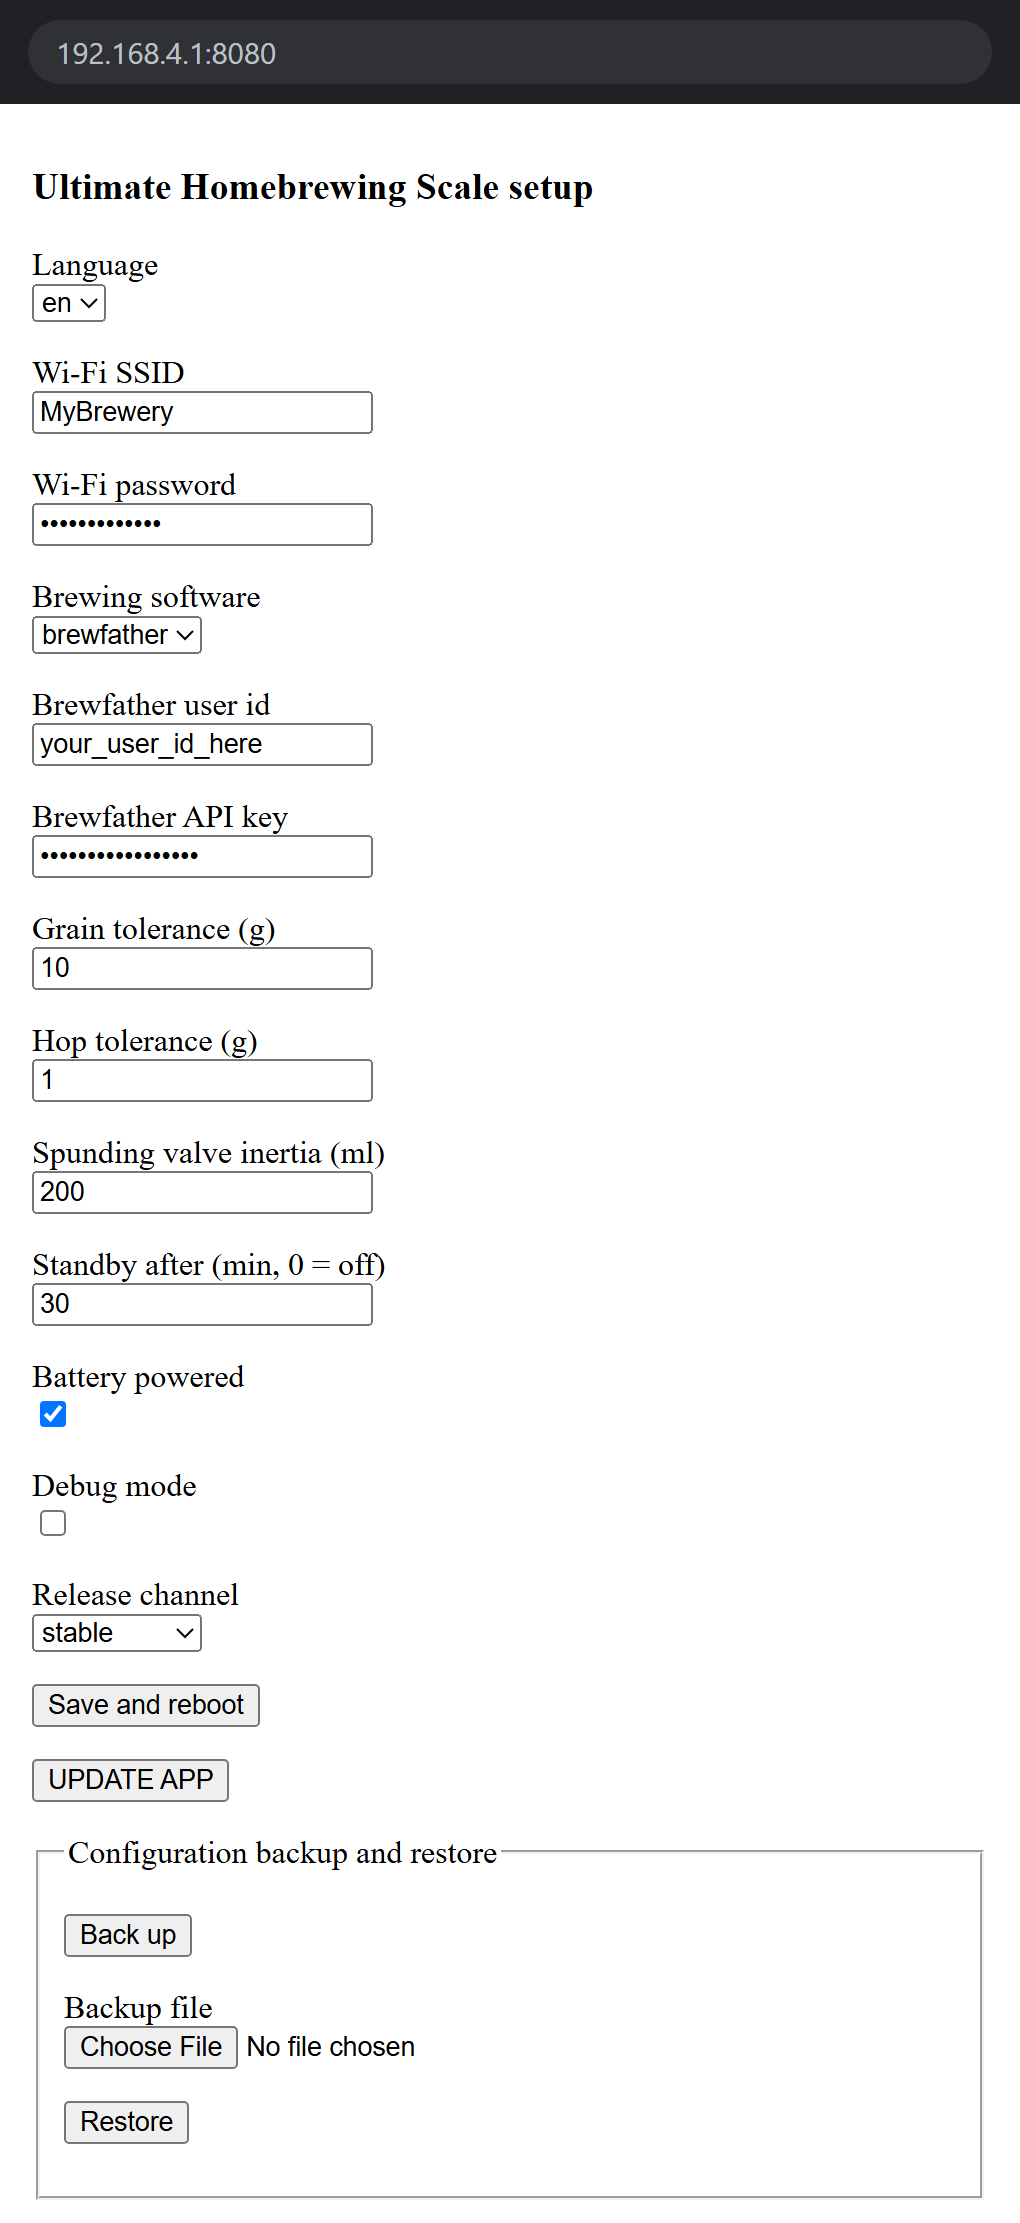
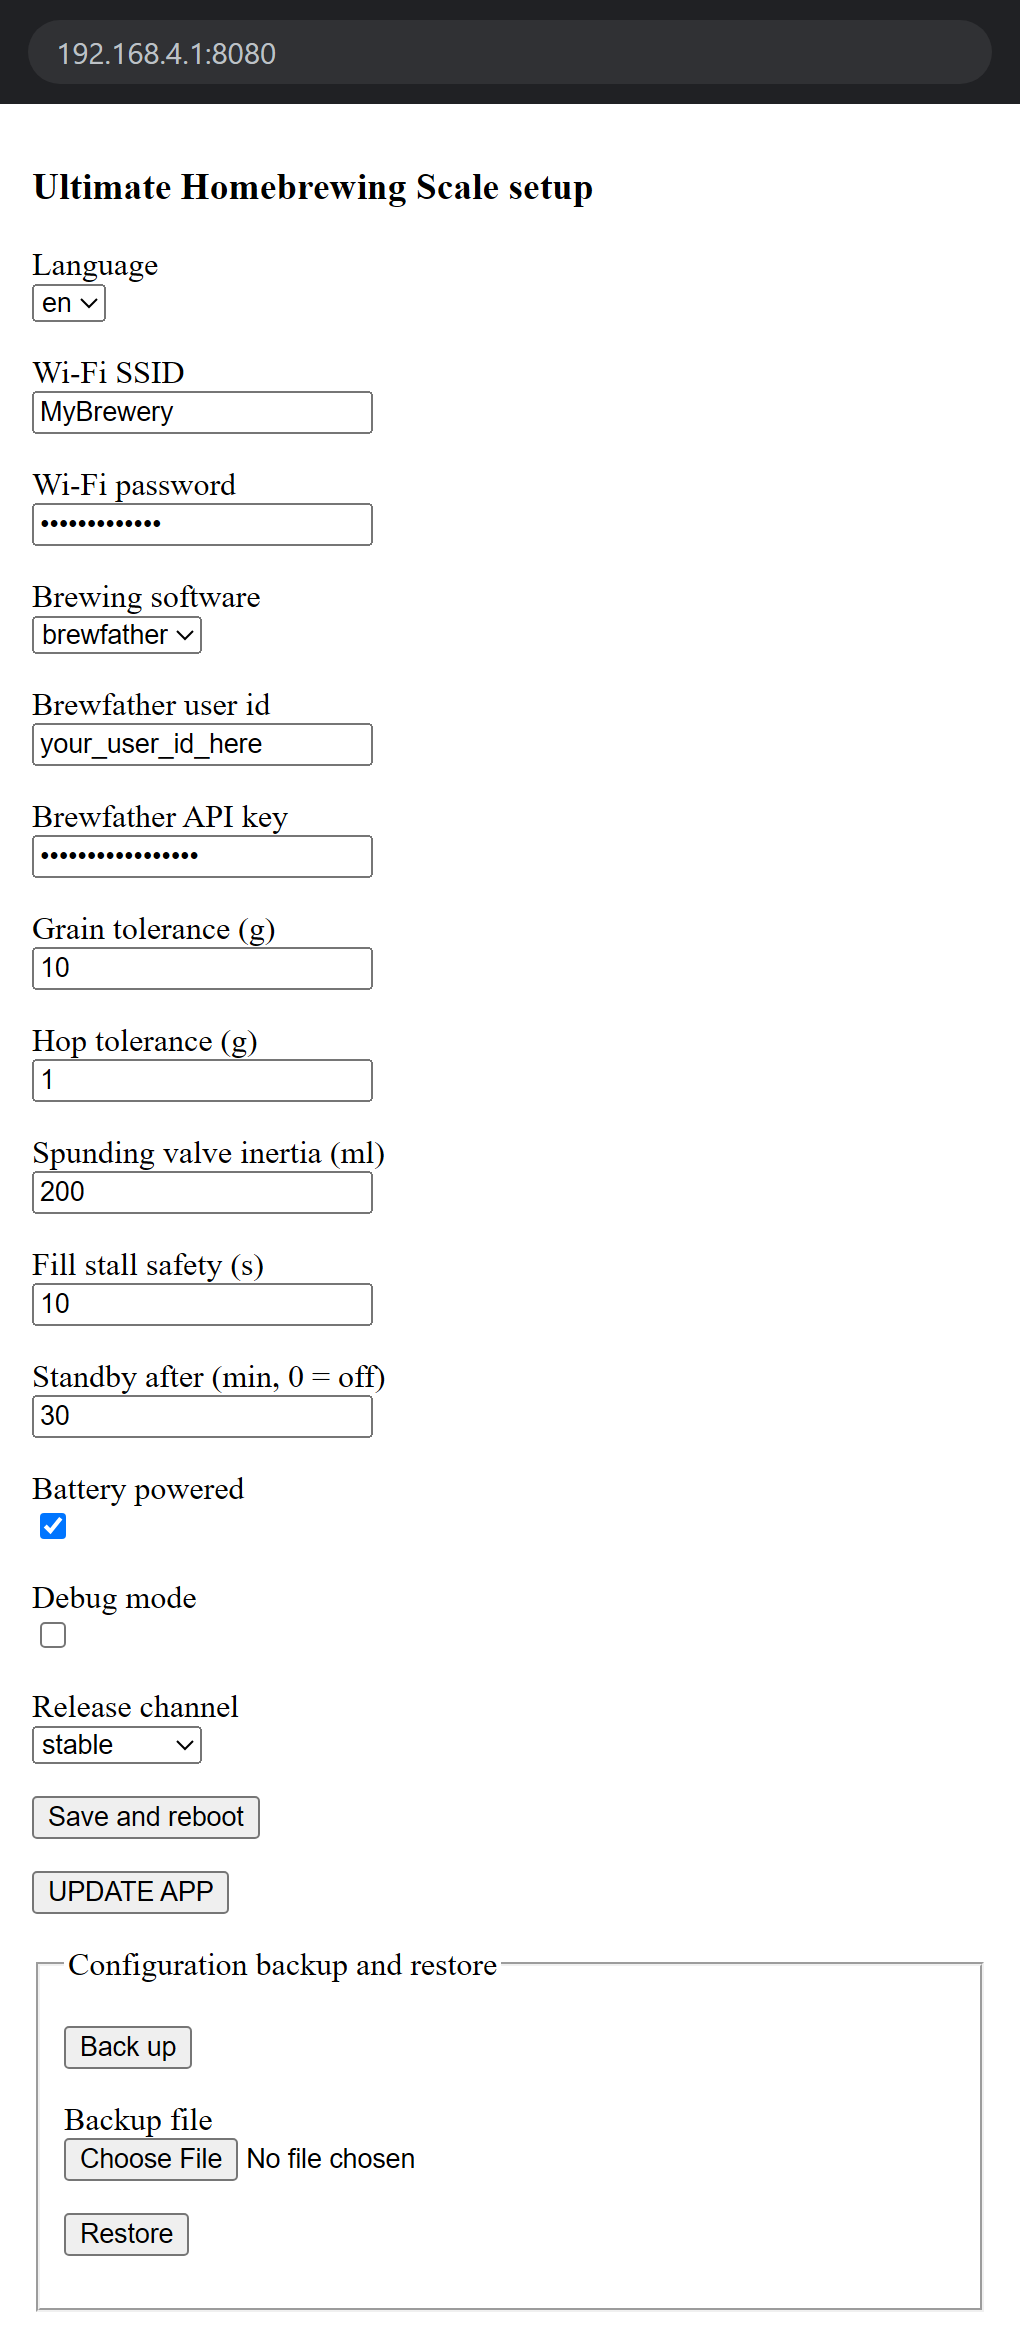
feat(keg): configurable fill stall safety with a resume prompt
The keg filler closed the valve after 30 s without weight change and
offered a recovery menu. The window now defaults to 10 s and is set from
the setup portal (KEG_FILL_STALL_TIMEOUT_S, 3 to 600 s, so the guard can
never be switched off).

When it trips, the Dial says how long the volume has been unchanged and
offers a Resume button. Resuming reopens the valve without re-taring and
restarts the stall window; a long press still returns to the launcher.
The prompt holds off standby so a stalled fill stays resumable.

SimpleMessageScreen takes an optional action button label for this. The
software installation guide, README, config example and portal
screenshot document the new setting.

diff --git a/docs/SoftwareInstallationGuide/fr/index.html b/docs/SoftwareInstallationGuide/fr/index.html
@@ -309,6 +309,15 @@
                       <td>Gardez <code>200</code> ml par défaut ; ce paramètre servira au keg filler pour compenser l'inertie de fermeture.</td>
                     </tr>
                     <tr>
+                      <td>Fill stall safety (s)</td>
+                      <td>
+                        Secondes sans variation de poids avant que le keg filler ferme l'électrovanne. Gardez
+                        <code>10</code> par défaut (plage acceptée : <code>3</code> à <code>600</code>). Le Dial indique
+                        alors depuis combien de temps le volume n'a pas changé : appuyez sur <strong>Reprendre</strong>
+                        pour rouvrir la vanne et relancer le décompte, ou faites un appui long pour revenir au launcher.
+                      </td>
+                    </tr>
+                    <tr>
                       <td>Standby after (min, 0 = off)</td>
                       <td>
                         Minutes sans activité avant la mise en veille du Dial. <strong>Saisissez <code>30</code></strong> :

diff --git a/docs/SoftwareInstallationGuide/en/index.html b/docs/SoftwareInstallationGuide/en/index.html
@@ -309,6 +309,15 @@
                       <td>Keep the default <code>200</code> ml; this future keg filler setting will compensate valve closing inertia.</td>
                     </tr>
                     <tr>
+                      <td>Fill stall safety (s)</td>
+                      <td>
+                        Seconds without any weight change before the keg filler closes the solenoid valve. Keep the
+                        default <code>10</code> (accepted range: <code>3</code> to <code>600</code>). The Dial then shows
+                        how long the volume has been unchanged: press <strong>Resume</strong> to reopen the valve and
+                        restart the countdown, or long-press to go back to the launcher.
+                      </td>
+                    </tr>
+                    <tr>
                       <td>Standby after (min, 0 = off)</td>
                       <td>
                         Minutes without activity before the Dial goes to sleep. <strong>Enter <code>30</code></strong>:

diff --git a/apps/keg_filler_app.py b/apps/keg_filler_app.py
@@ -33,9 +33,13 @@ SAMPLE_INTERVAL_MS = 200
 # The filling loop is the only loop in the project that drives an actuator.
 # read_weight_filtered() returns its cached value when the ADC read fails, so a
 # dead load cell would otherwise hold the valve open forever. No absolute
-# timeout: a legitimately slow fill must never be cut short.
+# timeout: a legitimately slow fill must never be cut short. The stall window
+# is KEG_FILL_STALL_TIMEOUT_S, clamped so the guard can never be switched off.
 FILL_STALL_TOLERANCE_G = 5
-FILL_STALL_TIMEOUT_MS = 30000
+DEFAULT_FILL_STALL_TIMEOUT_S = 10
+MIN_FILL_STALL_TIMEOUT_S = 3
+MAX_FILL_STALL_TIMEOUT_S = 600
+FILL_STALL_TIMEOUT_MS = DEFAULT_FILL_STALL_TIMEOUT_S * 1000
 
 _STATE_EMPTY_PLATFORM_ACK = 1
 _STATE_KEG_SELECT = 2
@@ -48,6 +52,7 @@ _STATE_ERROR_ACK = 8
 _STATE_FILLING = 9
 _STATE_FILLING_DONE_ACK = 10
 _STATE_FILLING_DONE_SELECT = 11
+_STATE_FILLING_STALLED_ACK = 12
 
 DEFAULT_SPUNDING_VALVE_INERTIA_ML = 200
 
@@ -63,6 +68,9 @@ __all__ = (
     "CALIBRATION_DURATION_MS",
     "SAMPLE_INTERVAL_MS",
     "FILL_STALL_TOLERANCE_G",
+    "DEFAULT_FILL_STALL_TIMEOUT_S",
+    "MIN_FILL_STALL_TIMEOUT_S",
+    "MAX_FILL_STALL_TIMEOUT_S",
     "FILL_STALL_TIMEOUT_MS",
     "_STATE_EMPTY_PLATFORM_ACK",
     "_STATE_KEG_SELECT",
@@ -75,6 +83,7 @@ __all__ = (
     "_STATE_FILLING",
     "_STATE_FILLING_DONE_ACK",
     "_STATE_FILLING_DONE_SELECT",
+    "_STATE_FILLING_STALLED_ACK",
     "DEFAULT_SPUNDING_VALVE_INERTIA_ML",
 )
 
@@ -127,12 +136,12 @@ class KegFillerApp(BaseApp):
         self._filling_stop_weight_g = 0
         self._filling_done_items = []
         self._filling_done_selected_idx = 0
-        self._resume_without_setup = False
         self._samples = []
         self._calibration_started_at = 0
         self._next_sample_at = 0
         self._fill_reference_weight_g = None
         self._fill_reference_at = 0
+        self._fill_stall_timeout_s = DEFAULT_FILL_STALL_TIMEOUT_S
         self._error_return_state = _STATE_EMPTY_PLATFORM_ACK
 
     def on_exit(self):
@@ -172,10 +181,12 @@ class KegFillerApp(BaseApp):
         A slow fill moves the weight by less than the standby tolerance
         between two samples, so idle detection would let the device deep
         sleep mid-fill: the valve closes safely, but the fill is cut short
-        and its state is lost. The wait on the completion prompt is covered
-        too, since the weight is then perfectly stable by definition.
+        and its state is lost. The completion and stall prompts are covered
+        too, since the weight is then perfectly stable by definition, and a
+        stalled fill must still be resumable once the line is fixed.
         """
-        return self._state in (_STATE_FILLING, _STATE_FILLING_DONE_ACK)
+        return self._state in (
+            _STATE_FILLING, _STATE_FILLING_DONE_ACK, _STATE_FILLING_STALLED_ACK)
 
     def tick(self):
         if self._check_return_to_launcher():
@@ -201,6 +212,8 @@ class KegFillerApp(BaseApp):
             self._tick_filling()
         elif self._state == _STATE_FILLING_DONE_ACK:
             self._tick_filling_done_ack()
+        elif self._state == _STATE_FILLING_STALLED_ACK:
+            self._tick_filling_stalled_ack()
         elif self._state == _STATE_FILLING_DONE_SELECT:
             return self._tick_filling_done_select()
         return None
@@ -421,6 +434,7 @@ class KegFillerApp(BaseApp):
         self.screen_manager.show(screen_ids.WEIGHT)
         self._fill_reference_weight_g = None
         self._fill_reference_at = _ticks_ms()
+        self._fill_stall_timeout_s = _fill_stall_timeout_s()
         self._open_relay()
         runtime_debug.snapshot("keg.filling_started", collect=False)
         self._state = _STATE_FILLING
@@ -442,24 +456,26 @@ class KegFillerApp(BaseApp):
             self._fill_reference_weight_g = weight
             self._fill_reference_at = _ticks_ms()
             return
-        if _ticks_diff(_ticks_ms(), self._fill_reference_at) < FILL_STALL_TIMEOUT_MS:
+        elapsed_ms = _ticks_diff(_ticks_ms(), self._fill_reference_at)
+        if elapsed_ms < self._fill_stall_timeout_s * 1000:
             return
         self._close_relay()
-        self._show_filling_stalled_select()
+        self._show_filling_stalled()
 
-    def _show_post_fill_select(self, title, first_item_key, resume_without_setup):
+    def _show_filling_done_select(self):
+        # The keg is full and about to be swapped, so the next fill starts from
+        # the setup prompt like any other.
         keg_name = ""
         if self._selected_keg:
             keg_name = self._selected_keg.get("name", "")
         self._filling_done_items = [
-            self.t(first_item_key, keg_name),
+            self.t("keg.fill_same", keg_name),
             self.t("keg.fill_other"),
             self.t("keg.return_menu"),
         ]
         self._filling_done_selected_idx = 0
-        self._resume_without_setup = resume_without_setup
         self._select().configure(
-            title=title,
+            title=self.t("keg.filling_done_title"),
             items=self._filling_done_items,
             accent_color=_COLOR_KEG,
             selected_index=0,
@@ -469,24 +485,24 @@ class KegFillerApp(BaseApp):
             self._rotary.reset()
         self._state = _STATE_FILLING_DONE_SELECT
 
-    def _show_filling_done_select(self):
-        # The keg is full and about to be swapped, so the next fill starts from
-        # the setup prompt like any other.
-        self._show_post_fill_select(
-            self.t("keg.filling_done_title"),
-            "keg.fill_same",
-            resume_without_setup=False,
+    def _show_filling_stalled(self):
+        self._simple().configure(
+            title=self.t("keg.filling_stalled_title"),
+            message=self.t("keg.filling_stalled_message", self._fill_stall_timeout_s),
+            title_bg_color=_COLOR_KEG,
+            show_ok_button=True,
+            ok_label=self.t("keg.resume"),
         )
+        self.screen_manager.show(screen_ids.SIMPLE_MESSAGE)
+        self._state = _STATE_FILLING_STALLED_ACK
 
-    def _show_filling_stalled_select(self):
+    def _tick_filling_stalled_ack(self):
         # Recovery, not a new fill: the keg is still on the platform, still
         # holding the tare this fill was measured against. Resuming must not
         # prompt the operator to place the keg, and must not re-tare.
-        self._show_post_fill_select(
-            self.t("keg.filling_stalled_title"),
-            "keg.fill_resume",
-            resume_without_setup=True,
-        )
+        # _start_filling re-arms the stall window from scratch.
+        if self.hardware.button.was_short_pressed():
+            self._start_filling()
 
     def _tick_filling_done_ack(self):
         if self.hardware.button.was_short_pressed():
@@ -505,10 +521,7 @@ class KegFillerApp(BaseApp):
         if not self.hardware.button.was_short_pressed():
             return None
         if idx == 0:
-            if self._resume_without_setup:
-                self._start_filling()
-            else:
-                self._show_filling_setup()
+            self._show_filling_setup()
             return None
         if idx == 1:
             self._show_select()
@@ -581,4 +594,17 @@ def _spunding_valve_inertia_ml():
         return DEFAULT_SPUNDING_VALVE_INERTIA_ML
     if value < 0:
         return 0
+    return value
+
+
+def _fill_stall_timeout_s():
+    try:
+        value = int(runtime_debug.setting(
+            "KEG_FILL_STALL_TIMEOUT_S", DEFAULT_FILL_STALL_TIMEOUT_S))
+    except Exception:
+        return DEFAULT_FILL_STALL_TIMEOUT_S
+    if value < MIN_FILL_STALL_TIMEOUT_S:
+        return MIN_FILL_STALL_TIMEOUT_S
+    if value > MAX_FILL_STALL_TIMEOUT_S:
+        return MAX_FILL_STALL_TIMEOUT_S
     return value

diff --git a/i18n/locales/fr.py b/i18n/locales/fr.py
@@ -88,7 +88,6 @@ TRANSLATIONS = {
         'filling_setup_message': '1) Poser le keg sur la balance\n2) Brancher la spunding\n3) Brancher la biere',
         'filling_done_title': 'Remplissage termine',
         'fill_same': 'Un autre {0}',
-        'fill_resume': 'Reprendre {0}',
         'fill_other': 'Un autre Keg',
         'return_menu': 'Launcher',
         'error_title': 'Erreur Keg',
@@ -97,6 +96,8 @@ TRANSLATIONS = {
         'tare_error': 'Erreur de tarage',
         'calibration_no_sample': 'Aucun echantillon valide',
         'filling_stalled_title': 'Aucun debit',
+        'filling_stalled_message': "Le volume n'a pas\nchange depuis {0} s",
+        'resume': 'Reprendre',
         'save_error': 'Erreur sauvegarde keg',
     },
 
@@ -173,6 +174,7 @@ TRANSLATIONS = {
             'GRAIN_WEIGHT_TOLERANCE': 'Tolerance malt (g)',
             'HOP_WEIGHT_TOLERANCE': 'Tolerance houblon (g)',
             'KEG_SPUNDING_VALVE_INERTIA_ML': 'Inertie spunding valve (ml)',
+            'KEG_FILL_STALL_TIMEOUT_S': 'Sécurité débit nul (s)',
             'STANDBY_TIMEOUT_MIN': 'Veille après (min, 0 = désactivé)',
             'BATTERY': 'Alimentation sur batterie',
             'DEBUG': 'Mode debug',

diff --git a/i18n/locales/en.py b/i18n/locales/en.py
@@ -88,7 +88,6 @@ TRANSLATIONS = {
         'filling_setup_message': '1) Put the keg on the scale\n2) Connect the spunding valve\n3) Connect the beer line',
         'filling_done_title': 'Filling complete',
         'fill_same': 'Another {0}',
-        'fill_resume': 'Resume {0}',
         'fill_other': 'Another Keg',
         'return_menu': 'Launcher',
         'error_title': 'Keg Error',
@@ -97,6 +96,8 @@ TRANSLATIONS = {
         'tare_error': 'Tare error',
         'calibration_no_sample': 'No valid sample',
         'filling_stalled_title': 'No flow',
+        'filling_stalled_message': 'Volume has not\nchanged for {0} s',
+        'resume': 'Resume',
         'save_error': 'Keg save error',
     },
 
@@ -173,6 +174,7 @@ TRANSLATIONS = {
             'GRAIN_WEIGHT_TOLERANCE': 'Grain tolerance (g)',
             'HOP_WEIGHT_TOLERANCE': 'Hop tolerance (g)',
             'KEG_SPUNDING_VALVE_INERTIA_ML': 'Spunding valve inertia (ml)',
+            'KEG_FILL_STALL_TIMEOUT_S': 'Fill stall safety (s)',
             'STANDBY_TIMEOUT_MIN': 'Standby after (min, 0 = off)',
             'BATTERY': 'Battery powered',
             'DEBUG': 'Debug mode',

diff --git a/ui/simple_message_screen.py b/ui/simple_message_screen.py
@@ -113,12 +113,13 @@ class SimpleMessageScreen:
         title_bg_color=0x333333,
         text_color=0xE5E7EB,
         show_ok_button=False,
+        ok_label=None,
     ):
         self.set_title(title)
         self.set_message(message)
         self.set_title_color(title_bg_color)
         self.set_text_color(text_color)
-        self.set_ok_visible(show_ok_button)
+        self.set_ok_visible(show_ok_button, ok_label)
 
     def set_title(self, title):
         UIHelper.set_title(self._title_label, title)
@@ -137,10 +138,10 @@ class SimpleMessageScreen:
     def set_text_color(self, color):
         self._message_label.set_style_text_color(lv.color_hex(color), 0)
 
-    def set_ok_visible(self, visible):
+    def set_ok_visible(self, visible, label=None):
         UIHelper.set_action_button_visible(
             self._ok_bg,
             self._ok_label,
             visible,
-            self._ok_caption(),
+            label or self._ok_caption(),
         )

diff --git a/webportal/config_keys.py b/webportal/config_keys.py
@@ -28,6 +28,14 @@ EDITABLE_KEYS = {
         "default": 200,
         "label": "Spunding valve inertia (ml)",
     },
+    # Bounds mirror apps.keg_filler_app: the stall guard cannot be disabled.
+    "KEG_FILL_STALL_TIMEOUT_S": {
+        "type": "int",
+        "min": 3,
+        "max": 600,
+        "default": 10,
+        "label": "Fill stall safety (s)",
+    },
     "STANDBY_TIMEOUT_MIN": {
         "type": "int",
         "min": 0,
@@ -96,6 +104,7 @@ EDITABLE_ORDER = [
     "GRAIN_WEIGHT_TOLERANCE",
     "HOP_WEIGHT_TOLERANCE",
     "KEG_SPUNDING_VALVE_INERTIA_ML",
+    "KEG_FILL_STALL_TIMEOUT_S",
     "STANDBY_TIMEOUT_MIN",
     "BATTERY",
     "DEBUG",

diff --git a/webportal/setup_portal_service.py b/webportal/setup_portal_service.py
@@ -33,6 +33,7 @@ _EDITABLE_FIELDS = (
     ("GRAIN_WEIGHT_TOLERANCE", "Grain tolerance (g)", "number", ()),
     ("HOP_WEIGHT_TOLERANCE", "Hop tolerance (g)", "number", ()),
     ("KEG_SPUNDING_VALVE_INERTIA_ML", "Spunding inertia (ml)", "number", ()),
+    ("KEG_FILL_STALL_TIMEOUT_S", "Fill stall safety (s)", "number", ()),
     ("STANDBY_TIMEOUT_MIN", "Standby after (min, 0 = off)", "number", ()),
     ("BATTERY", "Battery powered", "checkbox", ()),
     ("DEBUG", "Debug mode", "checkbox", ()),

diff --git a/webportal/portal_html.py b/webportal/portal_html.py
@@ -10,6 +10,7 @@ FIELDS = (
     ("GRAIN_WEIGHT_TOLERANCE", "Grain tolerance (g)", "number", ()),
     ("HOP_WEIGHT_TOLERANCE", "Hop tolerance (g)", "number", ()),
     ("KEG_SPUNDING_VALVE_INERTIA_ML", "Spunding valve inertia (ml)", "number", ()),
+    ("KEG_FILL_STALL_TIMEOUT_S", "Fill stall safety (s)", "number", ()),
     ("STANDBY_TIMEOUT_MIN", "Standby after (min, 0 = off)", "number", ()),
     ("BATTERY", "Battery powered", "checkbox", ()),
     ("DEBUG", "Debug mode", "checkbox", ()),

diff --git a/tools/render_portal_screenshot.py b/tools/render_portal_screenshot.py
@@ -54,6 +54,7 @@ SAMPLE_VALUES = {
     "GRAIN_WEIGHT_TOLERANCE": 10,
     "HOP_WEIGHT_TOLERANCE": 1,
     "KEG_SPUNDING_VALVE_INERTIA_ML": 200,
+    "KEG_FILL_STALL_TIMEOUT_S": 10,
     "STANDBY_TIMEOUT_MIN": 30,
     "BATTERY": True,
     "DEBUG": False,

diff --git a/README.md b/README.md
@@ -234,6 +234,7 @@ Editable settings are defined in [webportal/config_keys.py](webportal/config_key
 - `GRAIN_WEIGHT_TOLERANCE`
 - `HOP_WEIGHT_TOLERANCE`
 - `KEG_SPUNDING_VALVE_INERTIA_ML`
+- `KEG_FILL_STALL_TIMEOUT_S`
 - `STANDBY_TIMEOUT_MIN`
 - `BATTERY` (virtual key, see below)
 - `DEBUG`
@@ -306,6 +307,7 @@ LANGUAGE = "en"  # "en" or "fr"
 GRAIN_WEIGHT_TOLERANCE = 10
 HOP_WEIGHT_TOLERANCE = 1
 KEG_SPUNDING_VALVE_INERTIA_ML = 200
+KEG_FILL_STALL_TIMEOUT_S = 10  # seconds without weight change before the valve closes (3-600)
 STANDBY_TIMEOUT_MIN = 0  # minutes before deep sleep; 30 on battery, 0 disables
 DEBUG = False
 UPDATE_CHANNEL = "stable"
